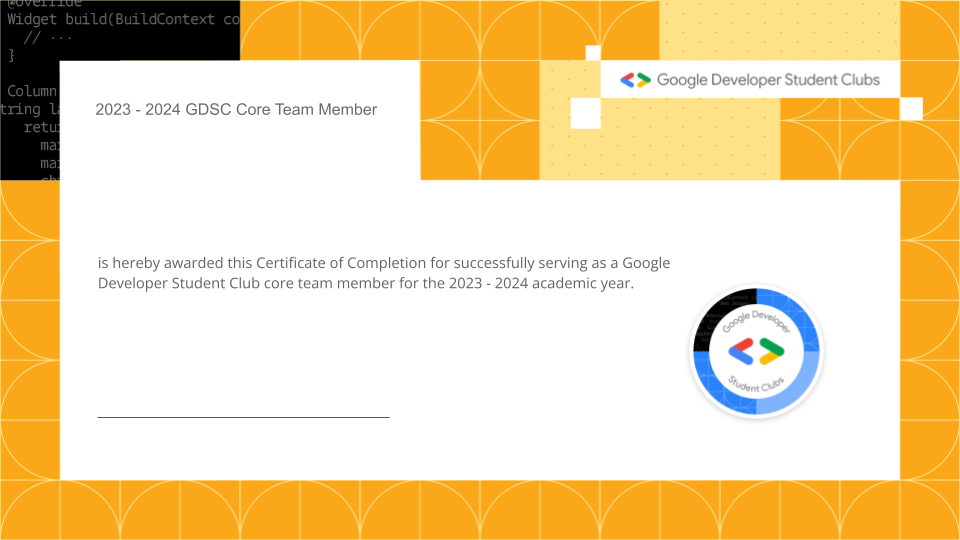
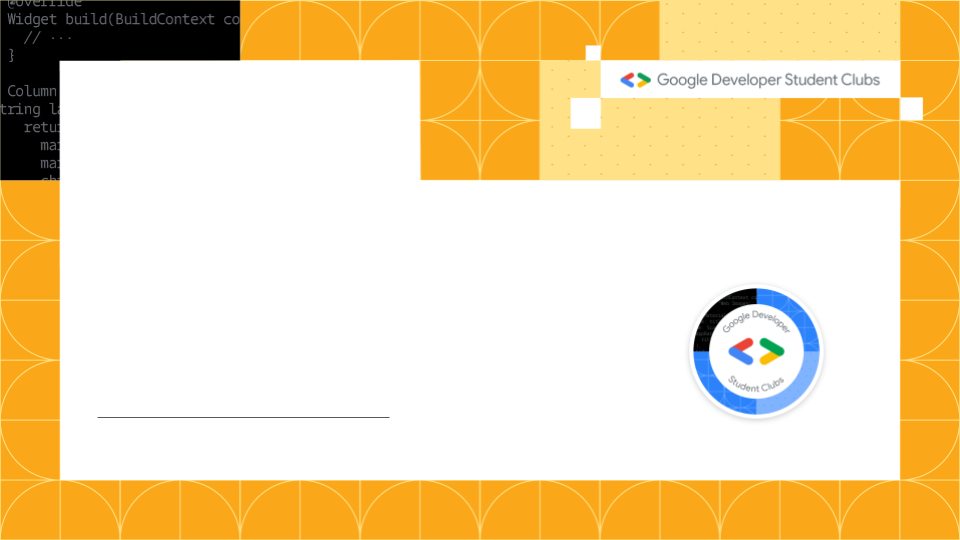
New template has been fully dynamic

Changed region(s): [[0.0938, 0.4741, 0.7188, 0.5333], [0.0938, 0.1778, 0.4062, 0.237]]

diff --git a/components/Create.js b/components/Create.js
@@ -656,24 +656,29 @@ function CertTemp5Inputs({
         <>
             <input
                 onChange={(e) => {
+                    setTitle(e.target.value);
+                }}
+                value={title}
+                placeholder={`Title`}
+            />
+            <textarea
+                onChange={(e) => {
+                    setLine1(e.target.value);
+                }}
+                value={line1}
+                placeholder="Line 1"
+                style={{
+                    minHeight: "100px",
+                }}
+            />
+            <input
+                onChange={(e) => {
                     setSignature(e.target.value);
                 }}
                 value={signature}
                 placeholder="Signature"
             />
-            <textarea
-                onChange={(e) => {
-                    setNames(e.target.value);
-                }}
-                value={names}
-                spellCheck="false"
-                placeholder={
-                    "Member1\r\nMember2\r\nMember3\r\n\r\nYou can create multiple certificates at once by entering the names of the members and clicking on the 'Create' button"
-                }
-                style={{
-                    minHeight: "200px",
-                }}
-            />
+
             <textarea
                 onChange={(e) => {
                     setLeadUniversity(e.target.value);
@@ -695,7 +700,19 @@ function CertTemp5Inputs({
                     day: "numeric",
                 })}
             />
-
+            <textarea
+                onChange={(e) => {
+                    setNames(e.target.value);
+                }}
+                value={names}
+                spellCheck="false"
+                placeholder={
+                    "Member1\r\nMember2\r\nMember3\r\n\r\nYou can create multiple certificates at once by entering the names of the members and clicking on the 'Create' button"
+                }
+                style={{
+                    minHeight: "200px",
+                }}
+            />
             <div className={styles["create-menu-btns"]}>
                 <button disabled={disabled} onClick={handleCreateBtn}>
                     Create

diff --git a/components/cert/CertificateTemplate5.js b/components/cert/CertificateTemplate5.js
@@ -51,6 +51,16 @@ function SvgComponent({
                     </g>
                 </g>
                 <text
+                    x="190"
+                    y="220"
+                    fill="#676c72"
+                    fontFamily={`'Open Sans'`}
+                    fontSize="28px"
+                    className="text__cls"
+                >
+                    {title || "2020 - 2021 GDSC Core Team Member"}
+                </text>
+                <text
                     x="185"
                     y="430"
                     fill="orange"
@@ -60,6 +70,24 @@ function SvgComponent({
                     className="text__cls"
                 >
                     {name || "Waleed Muhammad"}
+                </text>
+                <text
+                    x="185"
+                    y="500"
+                    fill="#5f6368"
+                    fontFamily={`'Open Sans'`}
+                    fontSize="36px"
+                    className="text__cls"
+                >
+                    {line1.split("\n").map((str, index, array) => (
+                        <tspan
+                            key={index}
+                            x="185"
+                            y={500 + index * 40} // Center vertically based on the number of lines
+                        >
+                            {str}
+                        </tspan>
+                    ))}
                 </text>
                 <text
                     x="185"
